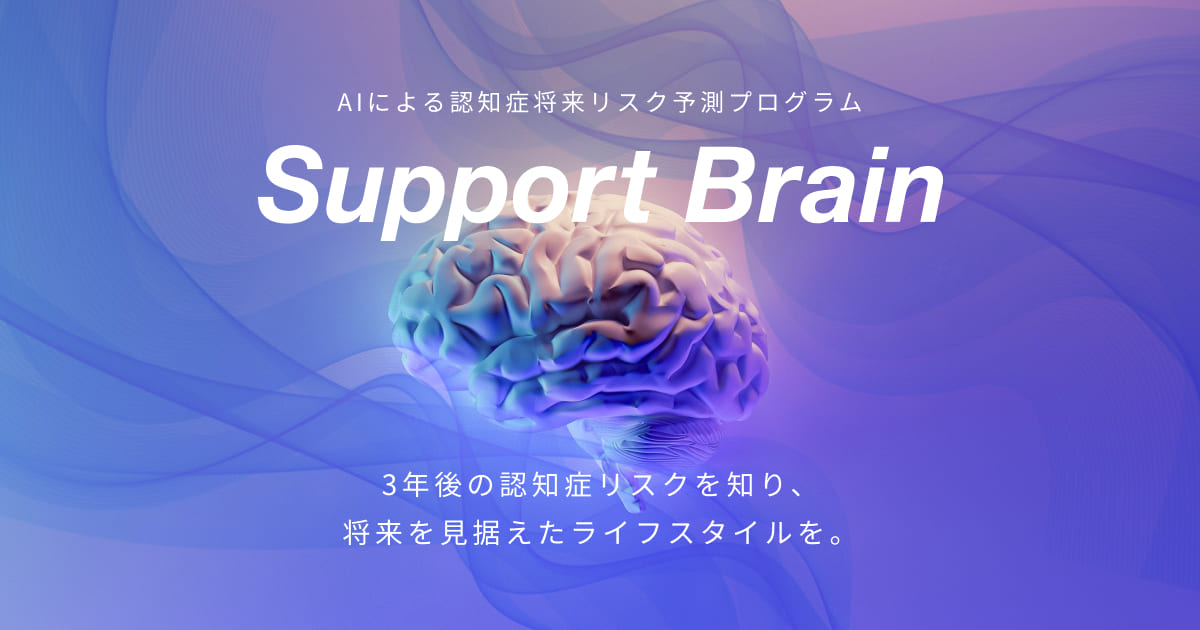
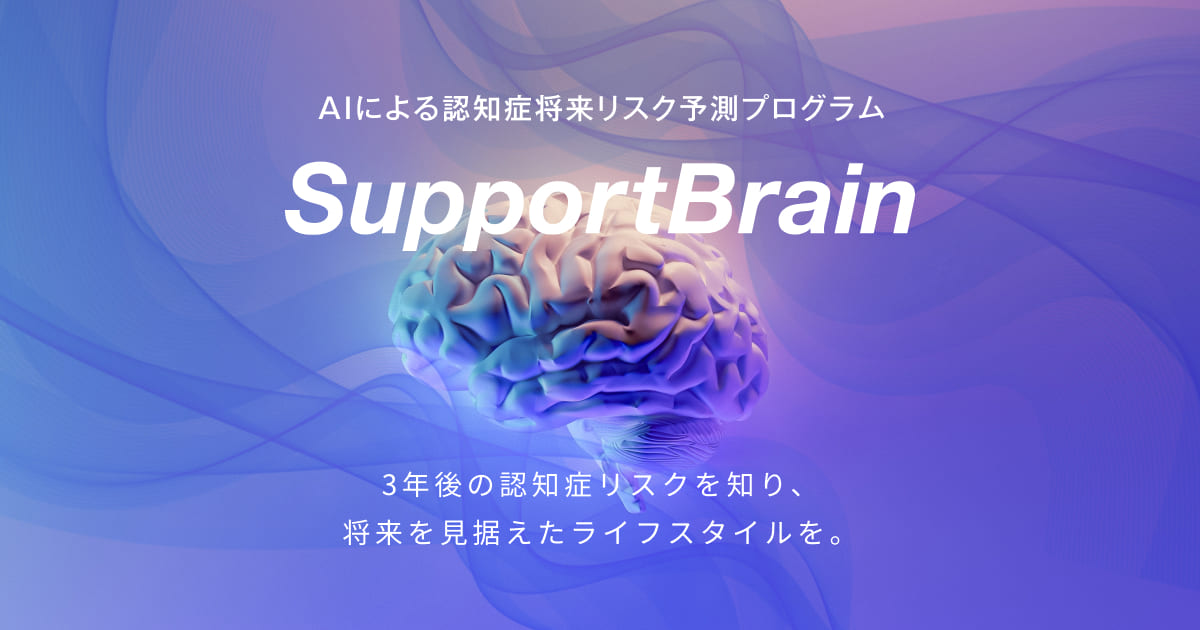
test

Changed region(s): [[0.2158, 0.1508, 0.8017, 0.3921]]

diff --git a/src/pages/healthcare.js b/src/pages/healthcare.js
@@ -704,7 +704,7 @@ const setAnimation = () => {
                         setIsShow(!isShow);
                         scrollLockLift();
                       }}>
-                      <hr /><p>Support Brainとは？</p>
+                      <hr /><p>SupportBrainとは？</p>
                     </AnchorLink>
                     <AnchorLink href="#merit"
                       className={style.list}
@@ -803,7 +803,7 @@ const setAnimation = () => {
 
             <div className={style.aboutCopy}>
               <div className={style.mask}>
-                <h1 id="aboutTitle">Support Brainとは？</h1>
+                <h1 id="aboutTitle">SupportBrainとは？</h1>
               </div>
               
               <div className={style.mask}>
@@ -824,19 +824,19 @@ const setAnimation = () => {
             </div>
 
             <div className={style.aboutCopySp}>
-              <h1 id="aboutTitleSp">Support Brainとは？</h1>
+              <h1 id="aboutTitleSp">SupportBrainとは？</h1>
               <h2 id="aboutCopySp">MRI装置で<br />撮像された脳画像を用いて、<br />脳全体の状態から<br />将来の認知症リスクを<br />予測する。</h2>
             </div>
 
             <div className={style.aboutText}>
               <div className={style.mask}>
-                <h3 id="aboutText">Support Brainは、島根大学医学部、滋賀医科大学、株式会社ERISAで共同開発された脳画像解析技術で、脳の状態を検査し将来の認知症リスクを予測します。<small>（1）</small>脳の一部だけではなく、脳全体を膨大なデータと比較することで、高い精度を実現。将来を見据えた認知症予防に取り組むきっかけを提供し、受検者のライフスタイル見直しに貢献します。</h3>
+                <h3 id="aboutText">SupportBrainは、島根大学医学部、滋賀医科大学、株式会社ERISAで共同開発された脳画像解析技術で、脳の状態を検査し将来の認知症リスクを予測します。<small>（1）</small>脳の一部だけではなく、脳全体を膨大なデータと比較することで、高い精度を実現。将来を見据えた認知症予防に取り組むきっかけを提供し、受検者のライフスタイル見直しに貢献します。</h3>
               </div>
             </div>
           </div>
           
           <div id="aboutFeatureTitle" className={style.aboutFeatureTitle}>
-            <h1>Support Brainの特徴</h1>
+            <h1>SupportBrainの特徴</h1>
           </div>
 
           <div className={style.aboutFeature}>
@@ -1065,7 +1065,7 @@ const setAnimation = () => {
             <div className={style.listFooter}>
               <div className={style.listStyle}>
                 <div className={style.list}>
-                  <hr /><AnchorLink href="#about"><p>Support Brainとは？</p></AnchorLink>
+                  <hr /><AnchorLink href="#about"><p>SupportBrainとは？</p></AnchorLink>
                 </div>
                 <div className={style.list}>
                   <hr /><AnchorLink href="#flow"><p>導入の流れ</p></AnchorLink>

diff --git a/src/pages/index.js b/src/pages/index.js
@@ -877,7 +877,7 @@ export const Index = () => {
                         setIsShow(!isShow);
                         scrollLockLift();
                       }}>
-                      <hr /><p>Support Brainとは？</p>
+                      <hr /><p>SupportBrainとは？</p>
                     </AnchorLink>
                     <AnchorLink href="#flow"
                       className={style.list}
@@ -962,7 +962,7 @@ export const Index = () => {
 
           <div id="aboutTitleMask" className={style.mask}>
             <h1 id="aboutTitle" className={style.aboutTitle}>
-              Support Brainとは？
+              SupportBrainとは？
             </h1>
           </div>
 
@@ -1023,7 +1023,7 @@ export const Index = () => {
 
           <div id="aboutTriger0" className={style.mask}>
             <div id="aboutText0" className={style.aboutText0}>
-              Support Brainは、島根大学医学部、滋賀医科大学、株式会社ERISAで共同開発された脳画像解析技術で、脳の状態を検査し将来の認知症リスクを予測します。脳の一部だけではなく、脳全体を膨大なデータと比較することで、高い精度を実現。将来を見据えた認知症予防に取り組むきっかけを提供し、受検者のライフスタイル見直しに貢献します。
+              SupportBrainは、島根大学医学部、滋賀医科大学、株式会社ERISAで共同開発された脳画像解析技術で、脳の状態を検査し将来の認知症リスクを予測します。脳の一部だけではなく、脳全体を膨大なデータと比較することで、高い精度を実現。将来を見据えた認知症予防に取り組むきっかけを提供し、受検者のライフスタイル見直しに貢献します。
             </div>
           </div>
 
@@ -1065,7 +1065,7 @@ export const Index = () => {
             </div>
 
             <div id="featureTitle" className={style.featureTitle}>
-              <h1>Support Brainの特徴</h1>
+              <h1>SupportBrainの特徴</h1>
             </div>
 
             <div id="mri" className={style.mri}>
@@ -1321,7 +1321,7 @@ export const Index = () => {
             <div className={style.listFooter}>
               <div className={style.listStyle}>
                 <div className={style.list}>
-                  <hr /><AnchorLink href="#about"><p>Support Brainとは？</p></AnchorLink>
+                  <hr /><AnchorLink href="#about"><p>SupportBrainとは？</p></AnchorLink>
                 </div>
                 <div className={style.list}>
                   <hr /><AnchorLink href="#introduce"><p>導入医療機関</p></AnchorLink>

diff --git a/src/pages/healthcare/contact-completion.js b/src/pages/healthcare/contact-completion.js
@@ -11,7 +11,6 @@ import * as style from "../../styles/healthcare-contact.module.scss"
 
 import logoColor from '../../images/logoColor.svg'
 import logoFooter from '../../images/logoFooter.svg'
-import ogpToc from '../../images/ogpToc.jpg'
 
 gsap.registerPlugin(ScrollTrigger);
 
@@ -95,7 +94,7 @@ export const Index = () => {
                 <header className={style.headerWrapper}>
                     <div className={isHeaderShown ? "healthcare-contact-module--container--6ae6c" : "healthcare-contact-module--show--82542"}>
                         <div className={style.flexContainer}>
-                            <a href="/">
+                            <a href="/healthcare">
                                 <img src={logoColor} className={style.logoColor} alt="logo" />
                             </a>
 
@@ -149,7 +148,7 @@ export const Index = () => {
                                                 setIsShow(!isShow);
                                                 scrollLockLift();
                                             }}>
-                                            <hr /><p>Support Brainとは？</p>
+                                            <hr /><p>SupportBrainとは？</p>
                                         </a>
                                         <a href="/#flow"
                                             className={style.list}
@@ -235,7 +234,7 @@ export const Index = () => {
                         <div className={style.listFooter}>
                             <div className={style.listStyle}>
                                 <div className={style.list}>
-                                    <hr /><a href="/#about"><p>Support Brainとは？</p></a>
+                                    <hr /><a href="/#about"><p>SupportBrainとは？</p></a>
                                 </div>
                                 <div className={style.list}>
                                     <hr /><a href="/#introduce"><p>導入医療機関</p></a>

diff --git a/src/pages/healthcare/contact.js b/src/pages/healthcare/contact.js
@@ -177,7 +177,7 @@ export const Index = () => {
                                                 setIsShow(!isShow);
                                                 scrollLockLift();
                                             }}>
-                                            <hr /><p>Support Brainとは？</p>
+                                            <hr /><p>SupportBrainとは？</p>
                                         </a>
                                         <a href="/healthcare#merit"
                                             className={style.list}
@@ -391,7 +391,7 @@ export const Index = () => {
                         <div className={style.listFooter}>
                             <div className={style.listStyle}>
                                 <div className={style.list}>
-                                    <hr /><a href="/healthcare#about"><p>Support Brainとは？</p></a>
+                                    <hr /><a href="/healthcare#about"><p>SupportBrainとは？</p></a>
                                 </div>
                                 <div className={style.list}>
                                     <hr /><a href="/healthcare#flow"><p>導入の流れ</p></a>

diff --git a/src/pages/contact-completion.js b/src/pages/contact-completion.js
@@ -149,7 +149,7 @@ export const Index = () => {
                                                 setIsShow(!isShow);
                                                 scrollLockLift();
                                             }}>
-                                            <hr /><p>Support Brainとは？</p>
+                                            <hr /><p>SupportBrainとは？</p>
                                         </a>
                                         <a href="/#flow"
                                             className={style.list}
@@ -234,7 +234,7 @@ export const Index = () => {
                         <div className={style.listFooter}>
                             <div className={style.listStyle}>
                                 <div className={style.list}>
-                                    <hr /><a href="/#about"><p>Support Brainとは？</p></a>
+                                    <hr /><a href="/#about"><p>SupportBrainとは？</p></a>
                                 </div>
                                 <div className={style.list}>
                                     <hr /><a href="/#introduce"><p>導入医療機関</p></a>

diff --git a/src/pages/contact.js b/src/pages/contact.js
@@ -179,7 +179,7 @@ export const Index = () => {
                                                 setIsShow(!isShow);
                                                 scrollLockLift();
                                             }}>
-                                            <hr /><p>Support Brainとは？</p>
+                                            <hr /><p>SupportBrainとは？</p>
                                         </a>
                                         <a href="/#flow"
                                             className={style.list}
@@ -366,7 +366,7 @@ export const Index = () => {
                         <div className={style.listFooter}>
                             <div className={style.listStyle}>
                                 <div className={style.list}>
-                                    <hr /><a href="/#about"><p>Support Brainとは？</p></a>
+                                    <hr /><a href="/#about"><p>SupportBrainとは？</p></a>
                                 </div>
                                 <div className={style.list}>
                                     <hr /><a href="/#introduce"><p>導入医療機関</p></a>

diff --git a/src/styles/healthcare.module.scss b/src/styles/healthcare.module.scss
@@ -361,7 +361,7 @@ body {
             .copyright {
                 display: flex;
                 justify-content: flex-start;
-                margin-top: 170px;
+                margin-top: 140px;
 
                 hr {
                     width: 767px;

diff --git a/src/styles/contact.module.scss b/src/styles/contact.module.scss
@@ -347,7 +347,7 @@
             .copyright {
                 display: flex;
                 justify-content: flex-start;
-                margin-top: 170px;
+                margin-top: 140px;
 
                 hr {
                     width: 767px;

diff --git a/src/styles/index.module.scss b/src/styles/index.module.scss
@@ -362,7 +362,7 @@
             .copyright {
                 display: flex;
                 justify-content: flex-start;
-                margin-top: 170px;
+                margin-top: 140px;
 
                 hr {
                     width: 767px;
